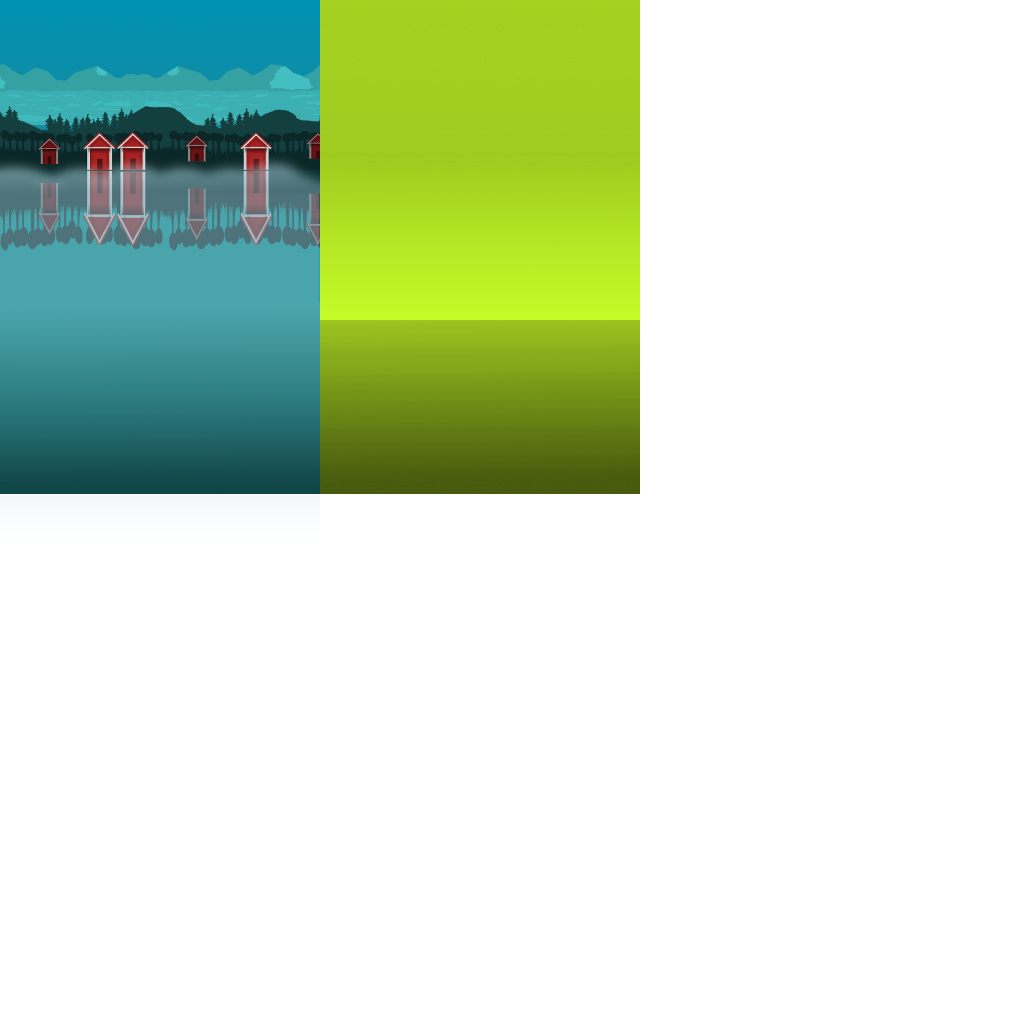
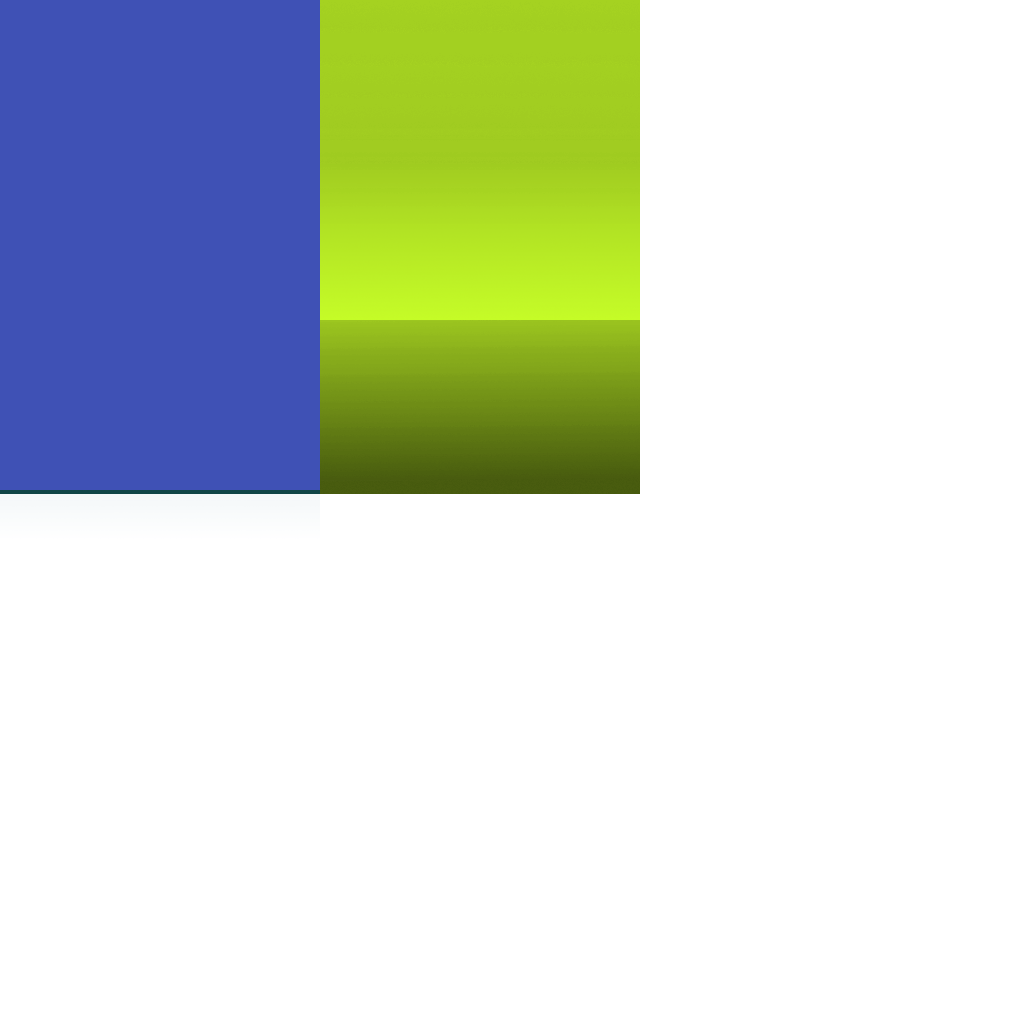
27 dec Artefakter och skiss för alla spelbakgrunder, fixat knappbugg när man visar items

Changed region(s): [[0.0, 0.0, 0.3125, 0.5]]

diff --git a/app/src/main/java/com/l2minigames/wanderfulworld/MapsActivity.java b/app/src/main/java/com/l2minigames/wanderfulworld/MapsActivity.java
@@ -279,7 +279,7 @@ public class MapsActivity extends FragmentActivity implements OnMapReadyCallback
                     ///ToDo fungerar bara om det finns koppling till servern
                     Bundle bundle = new Bundle();
                     bundle.putString("ENEMY", "hunchback");
-                    bundle.putString("WORLD", "wanderful world");
+                    bundle.putString("WORLD", "india");
                     bundle.putInt("HP", object.hp);
                     bundle.putInt("MAX_HP", object.maxhp);
                     bundle.putInt("CP", object.cp);
@@ -680,8 +680,8 @@ public class MapsActivity extends FragmentActivity implements OnMapReadyCallback
 
                 ///Ringar eller "cirklar" som märker ut 250 meter respektive 500 meter
 
-                mPositionLatitude.setText(""+object.latitude);
-                mPositionLongitude.setText(""+object.longitude);
+               /// mPositionLatitude.setText(""+object.latitude);
+               /// mPositionLongitude.setText(""+object.longitude);
                 mCircleTotal.center(new LatLng(myPositionLatitude, myPositionLongitude));
                 mCircleTotal.radius(250);
                 mCircleTotal.strokeColor(Color.parseColor("#dedede"));
@@ -881,8 +881,8 @@ public class MapsActivity extends FragmentActivity implements OnMapReadyCallback
 
         }
         if (mLastLocation != null) {
-            mPositionLatitude.setText(String.valueOf(mLastLocation.getLatitude()));
-            mPositionLongitude.setText(String.valueOf(mLastLocation.getLongitude()));
+            ///mPositionLatitude.setText(String.valueOf(mLastLocation.getLatitude()));
+           /// mPositionLongitude.setText(String.valueOf(mLastLocation.getLongitude()));
         }
     }
     @Override
@@ -1111,6 +1111,24 @@ public class MapsActivity extends FragmentActivity implements OnMapReadyCallback
                     objectViewHolder.itemNoLocale.setText("Travelwind India");
                     objectViewHolder.itemNameList.setText(R.string.travelwind_india);
                     objectViewHolder.itemTypeList.setText(R.string.travel);
+                }
+                else if (collectedItem.itemName.equals("Artefact Paris")) {
+                    objectViewHolder.itemIconList.setBackgroundResource(R.drawable.artefact_painter);
+                    objectViewHolder.itemNoLocale.setText("Artefact Paris");
+                    objectViewHolder.itemNameList.setText(R.string.artefact_paris);
+                    objectViewHolder.itemTypeList.setText(R.string.artefact);
+                }
+                else if (collectedItem.itemName.equals("Artefact London")) {
+                    objectViewHolder.itemIconList.setBackgroundResource(R.drawable.artefact_phone);
+                    objectViewHolder.itemNoLocale.setText("Artefact London");
+                    objectViewHolder.itemNameList.setText(R.string.artefact_london);
+                    objectViewHolder.itemTypeList.setText(R.string.artefact);
+                }
+                else if (collectedItem.itemName.equals("Artefact India")) {
+                    objectViewHolder.itemIconList.setBackgroundResource(R.drawable.artefact_bull);
+                    objectViewHolder.itemNoLocale.setText("Artefact India");
+                    objectViewHolder.itemNameList.setText(R.string.artefact_india);
+                    objectViewHolder.itemTypeList.setText(R.string.artefact);
                 }
 
             }
@@ -1487,7 +1505,7 @@ public class MapsActivity extends FragmentActivity implements OnMapReadyCallback
         tmpMarkersList.add(towerFire);
         MyMarker towerWater = new MyMarker(myLatitude, myLongitude - 0.0049, "towerwater");
         tmpMarkersList.add(towerWater);
-        MyMarker fight = new MyMarker(myLatitude, myLongitude - 0.0001, "fight");
+        MyMarker fight = new MyMarker(myLatitude, myLongitude - 0.0100, "fight");
         tmpMarkersList.add(fight);
 
             myRef.child("markerList").setValue(tmpMarkersList);
@@ -1910,6 +1928,7 @@ public class MapsActivity extends FragmentActivity implements OnMapReadyCallback
     }
     public void setNewLevel (int oldLevel){
 
+        ///ToDo Inte snyggt om detta körs innan koppling mot servern, dvs. vid start
         relativeLayoutPicked.setVisibility(View.VISIBLE);
         fab.setVisibility(View.INVISIBLE);
         personFab.setVisibility(View.INVISIBLE);
@@ -1985,6 +2004,7 @@ public class MapsActivity extends FragmentActivity implements OnMapReadyCallback
 
 
         Log.i("TAGGY", "showITEMNAAME: "+name);
+        increaseElementPowers.setVisibility(View.INVISIBLE);
 
         if (name.equals("Plant")){
             itemTitle.setText(getResources().getString(R.string.plant));
@@ -2077,6 +2097,24 @@ public class MapsActivity extends FragmentActivity implements OnMapReadyCallback
             itemDescription.setText(getResources().getString(R.string.travelwind_description));
             pickImage.setBackgroundResource(R.drawable.travelwind);
         }
+        else if (name.equals("Artefact Paris")){
+            itemTitle.setText(getResources().getString(R.string.artefact_paris));
+            itemType.setText(getResources().getString(R.string.artefact));
+            itemDescription.setText(getResources().getString(R.string.artefact_paris_description));
+            pickImage.setBackgroundResource(R.drawable.artefact_painter);
+        }
+        else if (name.equals("Artefact London")){
+            itemTitle.setText(getResources().getString(R.string.artefact_london));
+            itemType.setText(getResources().getString(R.string.artefact));
+            itemDescription.setText(getResources().getString(R.string.artefact_london_description));
+            pickImage.setBackgroundResource(R.drawable.artefact_phone);
+        }
+        else if (name.equals("Artefact India")){
+            itemTitle.setText(getResources().getString(R.string.artefact_india));
+            itemType.setText(getResources().getString(R.string.artefact));
+            itemDescription.setText(getResources().getString(R.string.artefact_india_description));
+            pickImage.setBackgroundResource(R.drawable.artefact_bull);
+        }
 
         relativeLayoutPicked.setVisibility(View.VISIBLE);
         fab.setVisibility(View.INVISIBLE);
@@ -2115,6 +2153,8 @@ public class MapsActivity extends FragmentActivity implements OnMapReadyCallback
         personFab.setVisibility(View.VISIBLE);
         travelAway.setVisibility(View.INVISIBLE);
         travelHome.setVisibility(View.INVISIBLE);
+        increaseElementPowers.setVisibility(View.INVISIBLE);
+
     }
     public void closeBackpack(){
 
@@ -2197,7 +2237,7 @@ public class MapsActivity extends FragmentActivity implements OnMapReadyCallback
 
         Bundle bundle = new Bundle();
         bundle.putString("ENEMY", "hunchback");
-        bundle.putString("WORLD", "wanderful world");
+        bundle.putString("WORLD", "paris");
         bundle.putInt("HP", object.hp);
         bundle.putInt("MAX_HP", object.maxhp);
         bundle.putInt("CP", object.cp);

diff --git a/app/src/main/java/com/l2minigames/wanderfulworld/World.java b/app/src/main/java/com/l2minigames/wanderfulworld/World.java
@@ -54,6 +54,8 @@ public class World {
     public int score;    
     public int state;
     public int mollyHp;
+    public int enemyHp;
+    public int enemyMaxHp;
     SuperJumper mContext;
 
     public World(WorldListener listener, SuperJumper context) {
@@ -84,20 +86,21 @@ public class World {
         this.coins = new ArrayList<Coin>();        
         this.listener = listener;
         rand = new Random();
+        setupEnemies();
         generateLevel();
         ///Skapa en "dummy" utanför skärmen så att något alltid ritas ut från enemyatlas
         createHedgehog(14,50,0);
         //Rita ut enemies
 
-        ///createHedgehog(14,17,-4);
-        ///createWolf(24,17.8f,-8);
-       /// createBulldog(25,17.5f,-6);
+        createHedgehog(14,17,-4);
+        createWolf(24,17.8f,-8);
+        ///createBulldog(25,17.5f,-6);
        /// createCaptain(25,18.5f,-4);
        createBird(27,26f,-4, -0.7f);
-       createDragon(34,26f,-4, -0.7f);
-       /// createSnake(40,17.5f,-3);
+       ////createDragon(34,26f,-4, -0.7f);
+       createSnake(40,17.5f,-3);
         createStone(50,18.2f,-7);
-        ///createGhost(53,22.2f,-4);
+        createGhost(53,22.2f,-4);
         
         this.heightSoFar = 0;
         this.score = 0;
@@ -552,6 +555,15 @@ public class World {
             }
         }
     }
+
+    private void setupEnemies(){
+
+        ///ToDo Slumpa var och vad som placeras ut. Jämför med mollys maxhp.
+        if (mContext.enemy.equals("hunchback")){
+                enemyMaxHp=10;
+                enemyHp=10;
+        }
+    }
     private void updateFires(float deltaTime) {
         int len = fires.size();
         for (int i = 0; i < len; i++) {
@@ -799,6 +811,8 @@ public class World {
                 Captain captain = captains.get(j);
                 if (OverlapTester.overlapRectangles(fire.bounds, captain.bounds)) {
                     createStars(fire.position.x, fire.position.y, "red");
+                    ///ToDo Olika skada beroende på level?
+                    enemyHp = enemyHp-1;
                     fires.remove(fire);
                     captains.remove(captain);
                     len2 = captains.size();
@@ -811,6 +825,8 @@ public class World {
                 Wolf wolf = wolves.get(j);
                 if (OverlapTester.overlapRectangles(fire.bounds, wolf.bounds)) {
                     createStars(fire.position.x, fire.position.y, "red");
+                    ///ToDo Olika skada beroende på level?
+                    enemyHp = enemyHp-1;
                     fires.remove(fire);
                     wolves.remove(wolf);
                     len3 = wolves.size();
@@ -830,6 +846,9 @@ public class World {
                 Snake snake = snakes.get(j);
                 if (OverlapTester.overlapRectangles(earth.bounds, snake.bounds)) {
                     createStars(earth.position.x, earth.position.y, "green");
+
+                    ///ToDo Olika skada beroende på level?
+                    enemyHp = enemyHp-1;
                     earths.remove(earth);
                     snakes.remove(snake);
                     len2 = snakes.size();
@@ -842,6 +861,8 @@ public class World {
                 Hedgehog hedgehog = hedgehogs.get(j);
                 if (OverlapTester.overlapRectangles(earth.bounds, hedgehog.bounds)) {
                     createStars(earth.position.x, earth.position.y, "green");
+                    ///ToDo Olika skada beroende på level?
+                    enemyHp = enemyHp-1;
                     earths.remove(earth);
                     hedgehogs.remove(hedgehog);
                     len3 = hedgehogs.size();
@@ -861,6 +882,8 @@ public class World {
                 Bulldog bulldog = bulldogs.get(j);
                 if (OverlapTester.overlapRectangles(water.bounds, bulldog.bounds)) {
                     createStars(water.position.x, water.position.y, "blue");
+                    ///ToDo Olika skada beroende på level?
+                    enemyHp = enemyHp-1;
                     waters.remove(water);
                     bulldogs.remove(bulldog);
                     len2 = bulldogs.size();
@@ -873,6 +896,8 @@ public class World {
                 Ghost ghost = ghosts.get(j);
                 if (OverlapTester.overlapRectangles(water.bounds, ghost.bounds)) {
                     createStars(water.position.x, water.position.y, "blue");
+                    ///ToDo Olika skada beroende på level?
+                    enemyHp = enemyHp-1;
                     waters.remove(water);
                     ghosts.remove(ghost);
                     len3 = ghosts.size();
@@ -892,6 +917,8 @@ public class World {
                 Bird bird = birds.get(j);
                 if (OverlapTester.overlapRectangles(air.bounds, bird.bounds)) {
                     createStars(air.position.x, air.position.y, "yellow");
+                    ///ToDo Olika skada beroende på level?
+                    enemyHp = enemyHp-1;
                     airs.remove(air);
                     birds.remove(bird);
                     len2 = birds.size();
@@ -904,6 +931,8 @@ public class World {
                 Dragon dragon = dragons.get(j);
                 if (OverlapTester.overlapRectangles(air.bounds, dragon.bounds)) {
                     createStars(air.position.x, air.position.y, "yellow");
+                    ///ToDo Olika skada beroende på level?
+                    enemyHp = enemyHp-1;
                     airs.remove(air);
                     dragons.remove(dragon);
                     len3 = dragons.size();
@@ -958,12 +987,9 @@ public class World {
 
         ///ToDo Fixa i GameScreen-klassen beroende på hur spelet slutade
 
-        if (timer.position.x>=40 || molly.hp<1){
+        if (timer.position.x>=40 || molly.hp<1 || enemyHp<1){
             state = WORLD_STATE_GAME_OVER;
         }
-        ///Kolla om Timern har gått ut
-        if (heightSoFar - 7.5f > bob.position.y) {
-            state = WORLD_STATE_GAME_OVER;
-        }
+
     }
 }

diff --git a/app/src/main/java/com/l2minigames/wanderfulworld/WorldRenderer.java b/app/src/main/java/com/l2minigames/wanderfulworld/WorldRenderer.java
@@ -151,24 +151,19 @@ public class WorldRenderer {
         float hp = world.molly.hp;
         float maxhp = world.molly.maxhp;
         float computeRatio = hp/maxhp*5f;
-        Log.i("GAME","COMPUTE RATIO:"+computeRatio);
-        Log.i("GAME","MOLLY HP:"+world.molly.hp);
-        Log.i("GAME","MOLLY MAXHP:"+world.molly.maxhp);
-        Log.i("GAME","COMPUTE RATIO:"+computeRatio);
-        Log.i("GAME","COMPUTE RATIO:"+computeRatio);
-
-        float actualsize = 4.5f;
         float marginLeft = 4f;
         float difference = (fullsize-computeRatio)/2; ///computeRatio tidigare actualsize
         batcher.drawSprite(marginLeft, 26.6f, fullsize, 0.5f, Assets.itemsHPBarBlack);
         batcher.drawSprite(marginLeft-difference, 26.6f, computeRatio, 0.5f, Assets.itemsHPBarGreen);
         ///För AI
         float fullsizeAI=5f;
-        float actualsizeAI = 3f;
+        float enemyHp = world.enemyHp;
+        float enemyMaxHp = world.enemyMaxHp;
+        float computeRatioAI = enemyHp/enemyMaxHp*5f;
         float marginLeftAI = 16f;
-        float differenceAI = (fullsizeAI-actualsizeAI)/2;
+        float differenceAI = (fullsizeAI-computeRatioAI)/2;
         batcher.drawSprite(marginLeftAI, 26.6f, fullsizeAI, 0.5f, Assets.itemsHPBarBlack);
-        batcher.drawSprite(marginLeftAI-differenceAI, 26.6f, actualsizeAI, 0.5f, Assets.itemsHPBarGreen);
+        batcher.drawSprite(marginLeftAI-differenceAI, 26.6f, computeRatioAI, 0.5f, Assets.itemsHPBarGreen);
 
 
 
@@ -294,8 +289,15 @@ public class WorldRenderer {
     private void renderGround() {
 
         ///Kollar mot world.ground
-
         if (world.ground.type.equals("normal")){batcher.drawSprite(2, 16, 4, 1, Assets.itemsLog);}
+
+        batcher.drawSprite(6, 16, 4, 1, Assets.itemsLog);
+        batcher.drawSprite(10, 16, 4, 1, Assets.itemsLog);
+        batcher.drawSprite(14, 16, 4, 1, Assets.itemsLog);
+        batcher.drawSprite(18, 16, 4, 1, Assets.itemsLog);
+
+
+/*
 
         if (mContext.world.equals("wanderful world")) {
            /// batcher.drawSprite(2, 16, 4, 1, Assets.itemsLog);
@@ -304,6 +306,7 @@ public class WorldRenderer {
             batcher.drawSprite(14, 16, 4, 1, Assets.itemsLog);
             batcher.drawSprite(18, 16, 4, 1, Assets.itemsLog);
         }
+        */
 
     }
     private void renderStars(){

diff --git a/app/src/main/java/com/l2minigames/wanderfulworld/GameScreen.java b/app/src/main/java/com/l2minigames/wanderfulworld/GameScreen.java
@@ -348,7 +348,7 @@ public class GameScreen extends GLScreen {
 
     private void presentRunning() {
 
-        batcher.drawSprite(320 - 32, 480 - 32, 64, 64, Assets.pause);
+       /// batcher.drawSprite(320 - 32, 480 - 32, 64, 64, Assets.pause);
         if (world.timer.position.x>=0 && world.timer.position.x<2){Assets.font.drawText(batcher, "20", 304, 850);}
         if (world.timer.position.x>=2 && world.timer.position.x<4){Assets.font.drawText(batcher, "19", 304, 850);}
         if (world.timer.position.x>=4 && world.timer.position.x<6){Assets.font.drawText(batcher, "18", 304, 850);}
@@ -393,7 +393,7 @@ public class GameScreen extends GLScreen {
         if (world.molly.hp<1) {
             Assets.font.drawText(batcher, "game over", 190, 450);
         } else {
-            Assets.font.drawText(batcher, "game over", 190, 450);
+            Assets.font.drawText(batcher, "bravissimo", 188, 450);
         }
         ///batcher.drawSprite(160, 240, 160, 96, Assets.gameOver);
         float scoreWidth = Assets.font.glyphWidth * scoreString.length();
